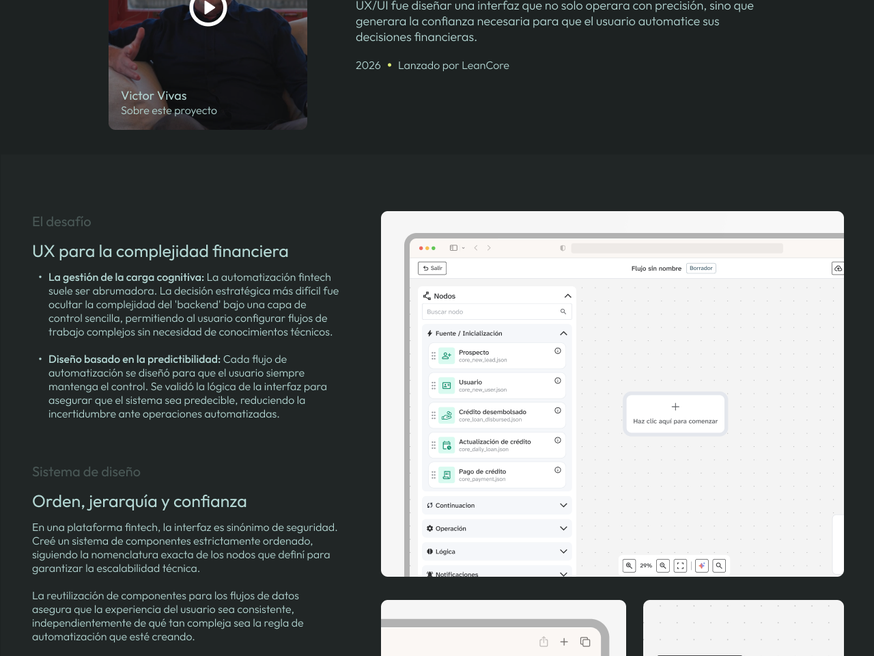
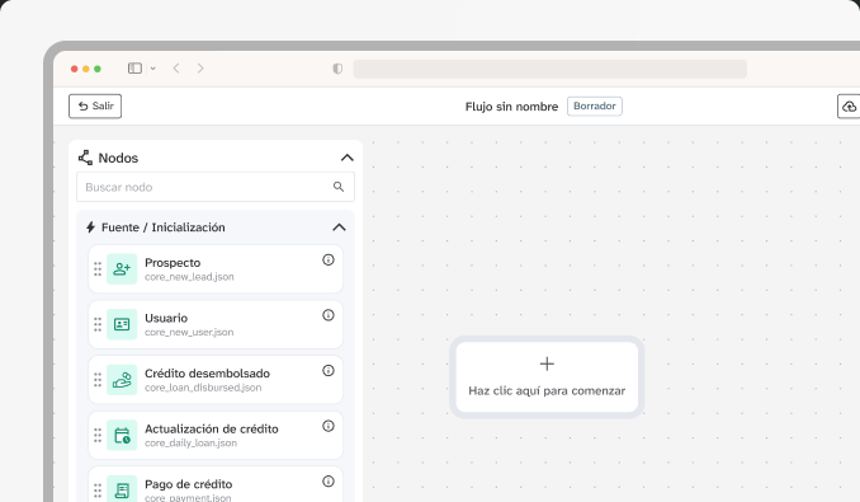
Slider cards: match Victor's card designs (tags, captions, thumbnails)
- Add cardTags (slider tags differ from the hero tags per Victor's designs):
  Polestar UX/UI/Responsive/Landing Page/User Testing, LeanCore UI/WebApp/Design System.
- Update card captions to the frame copy.
- Regenerate proj-polestar / proj-leancore thumbnails from the case crops so the
  cards show the Pilates phone and the flow-builder (were frame-crops).

diff --git a/src/data/projects.ts b/src/data/projects.ts
@@ -6,7 +6,11 @@ export interface Project {
   /** Card thumbnail for the Home slider. */
   img: string;
   alt: string;
+  /** Tags shown on the case-study hero (from each project's Figma hero). */
   tags: string[];
+  /** Tags shown on the slider card — Victor's card designs differ from the
+   *  hero tags. Falls back to `tags` when omitted. */
+  cardTags?: string[];
   desc: string;
   /** Full case-study frame render, used as the page body until each case
    *  study is built out as real markup. */
@@ -40,7 +44,8 @@ export const projects: Project[] = [
     img: "/img/proj-polestar.png",
     alt: "Caso de estudio Polestar",
     tags: ["UI", "Prototype", "Landing Page", "Design System"],
-    desc: "Rediseño integral de Polestar Pilates: elevando la conversión mediante UX estratégica.",
+    cardTags: ["UX", "UI", "Responsive", "Landing Page", "User Testing"],
+    desc: "Rediseño integral de Polestar Pilates: Elevando la conversión mediante UX estratégica.",
     frame: "/img/case/polestar.png",
     frameHeight: 3847,
     year: "2025",
@@ -53,7 +58,8 @@ export const projects: Project[] = [
     img: "/img/proj-leancore.png",
     alt: "Caso de estudio LeanCore Studio",
     tags: ["UI", "Prototype", "Landing Page", "Design System"],
-    desc: "LeanCore Studio: simplificando la complejidad financiera a través del diseño.",
+    cardTags: ["UI", "WebApp", "Design System"],
+    desc: "LeanCore Studio: Simplificando la complejidad financiera a través del diseño",
     frame: "/img/case/leancore-studio.png",
     frameHeight: 3579,
     year: "2026",
